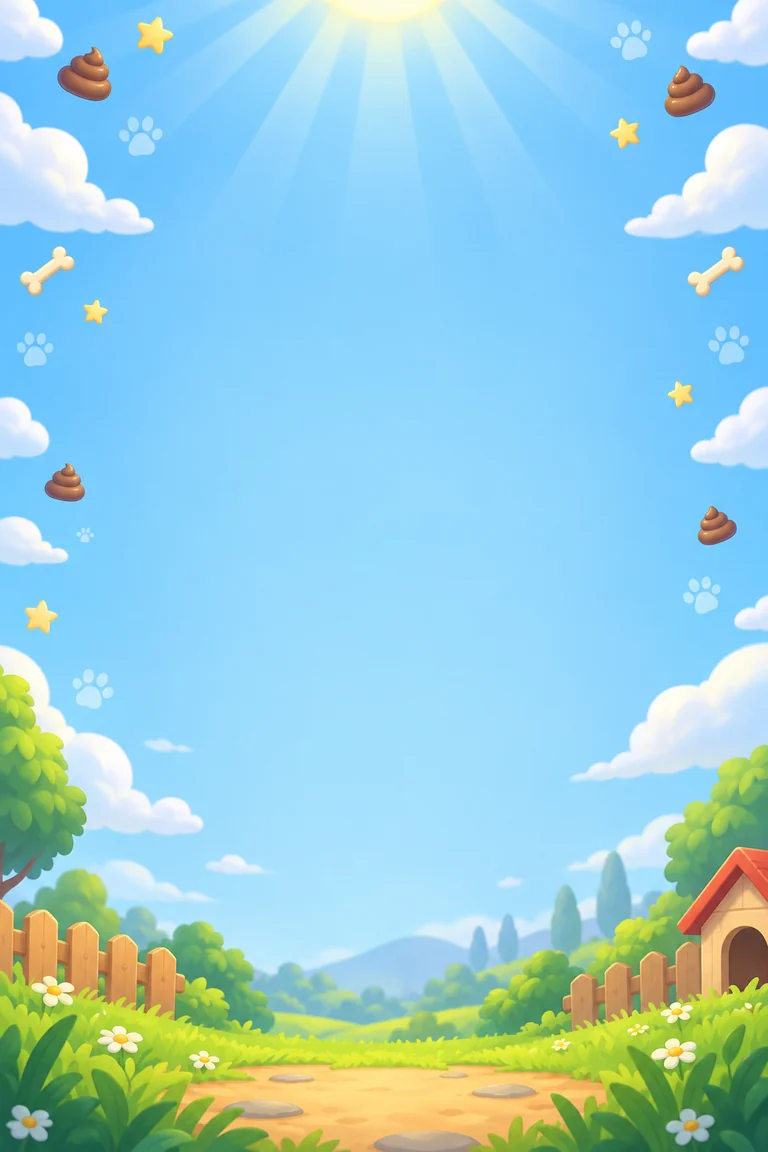
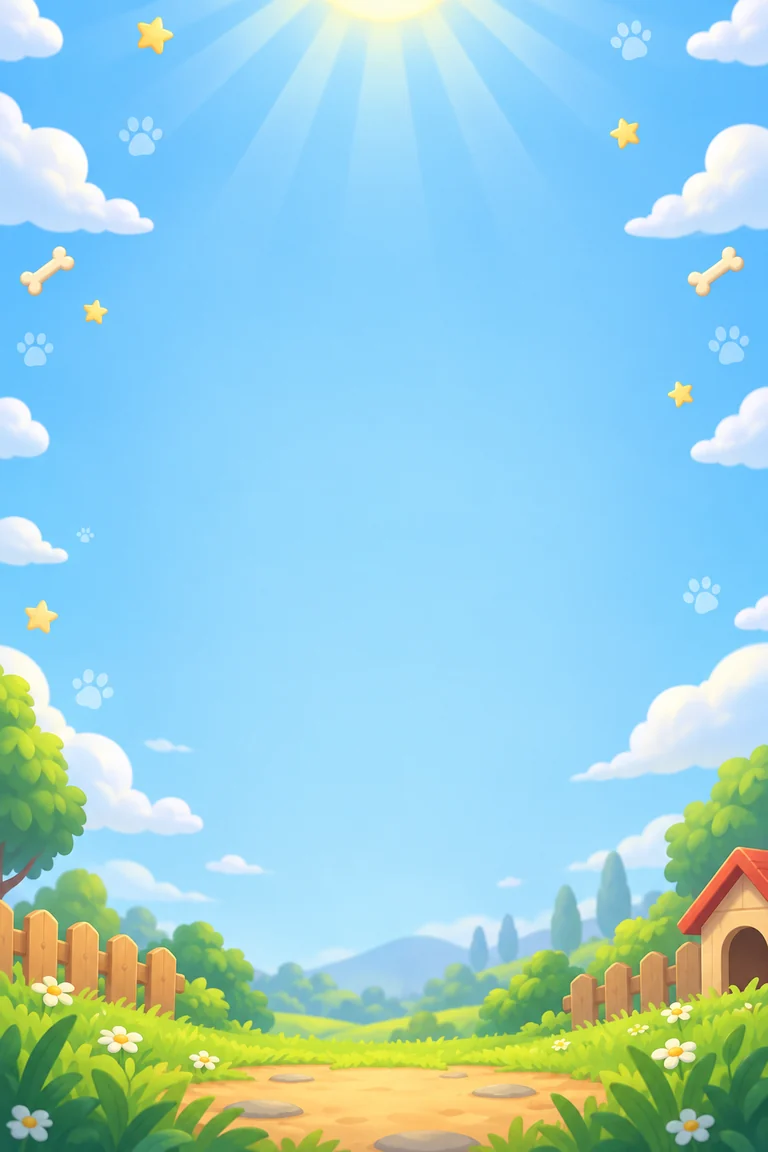
v0.8.95 메인 배경 옆 똥 지우기, 시작 화면 위아래 여백 같게(노치 여백 이중 계산 제거), 잘못 올라간 스크린샷 삭제

diff --git a/index.html b/index.html
@@ -752,8 +752,10 @@
   #startScreen {
     gap: clamp(3px, 0.75vh, 7px);
     /* v0.8.90 시작 화면은 게임판 비율(위아래 --lby 띠)에 갇힐 까닭이 없다 — 폰 높이를 다 쓰고, 아래는 코인·톱니 줄 자리만 남긴다 */
-    padding-top: calc(max(10px, env(safe-area-inset-top)) + min(var(--lby, 0px), 44px));   /* v0.8.92 시작하기 밑 빈자리를 위로 — 로고가 맨 위에 붙지 않게 */
-    padding-bottom: max(12px, env(safe-area-inset-bottom));
+    /* v0.8.95 위아래 여백을 똑같이 → 내용이 화면 한가운데. 노치 자리는 body 가 이미 비워 두므로
+       여기서 safe-area 를 또 더하면 위만 두 번 비어(폰에 따라 위 여백만 커졌다) 넣지 않는다 */
+    padding-top: 10px;
+    padding-bottom: 10px;
     padding-left: calc(10px + var(--lbx, 0px));
     padding-right: calc(10px + var(--lbx, 0px));
   }
@@ -1410,7 +1412,7 @@
   const elTitle = document.getElementById("overTitle");
   const coinNote = document.getElementById("coinNote");
 
-  const GAME_VERSION = "v0.8.94";
+  const GAME_VERSION = "v0.8.95";
   /* 제작사 스플래시(bamhobak friends 로고) — 2026-09-20 끔. 다시 켜려면 true */
   const SPLASH_USE = false;   // 코드를 고칠 때마다 뒤 두 자리를 올린다
   document.getElementById("ver").textContent = GAME_VERSION;

diff --git a/README.md b/README.md
@@ -5,7 +5,7 @@
 👉 **플레이: https://bamhobak.github.io/ddongpi/**
 
 > 이 문서는 `index.html` 의 실제 값을 옮겨 적은 것입니다. 숫자를 고쳤으면 여기도 같이 고쳐 주세요.
-> 마지막으로 맞춰 본 판: **v0.8.94**
+> 마지막으로 맞춰 본 판: **v0.8.95**
 
 ## ⚔ 대전모드 (v0.8.24 한 폰 · v0.8.25 두 폰)
 시작하기를 누르면 **[방 만들기] · [방 참가](방 번호 4자리) · [한 폰으로 둘이서]** 를 고릅니다.
